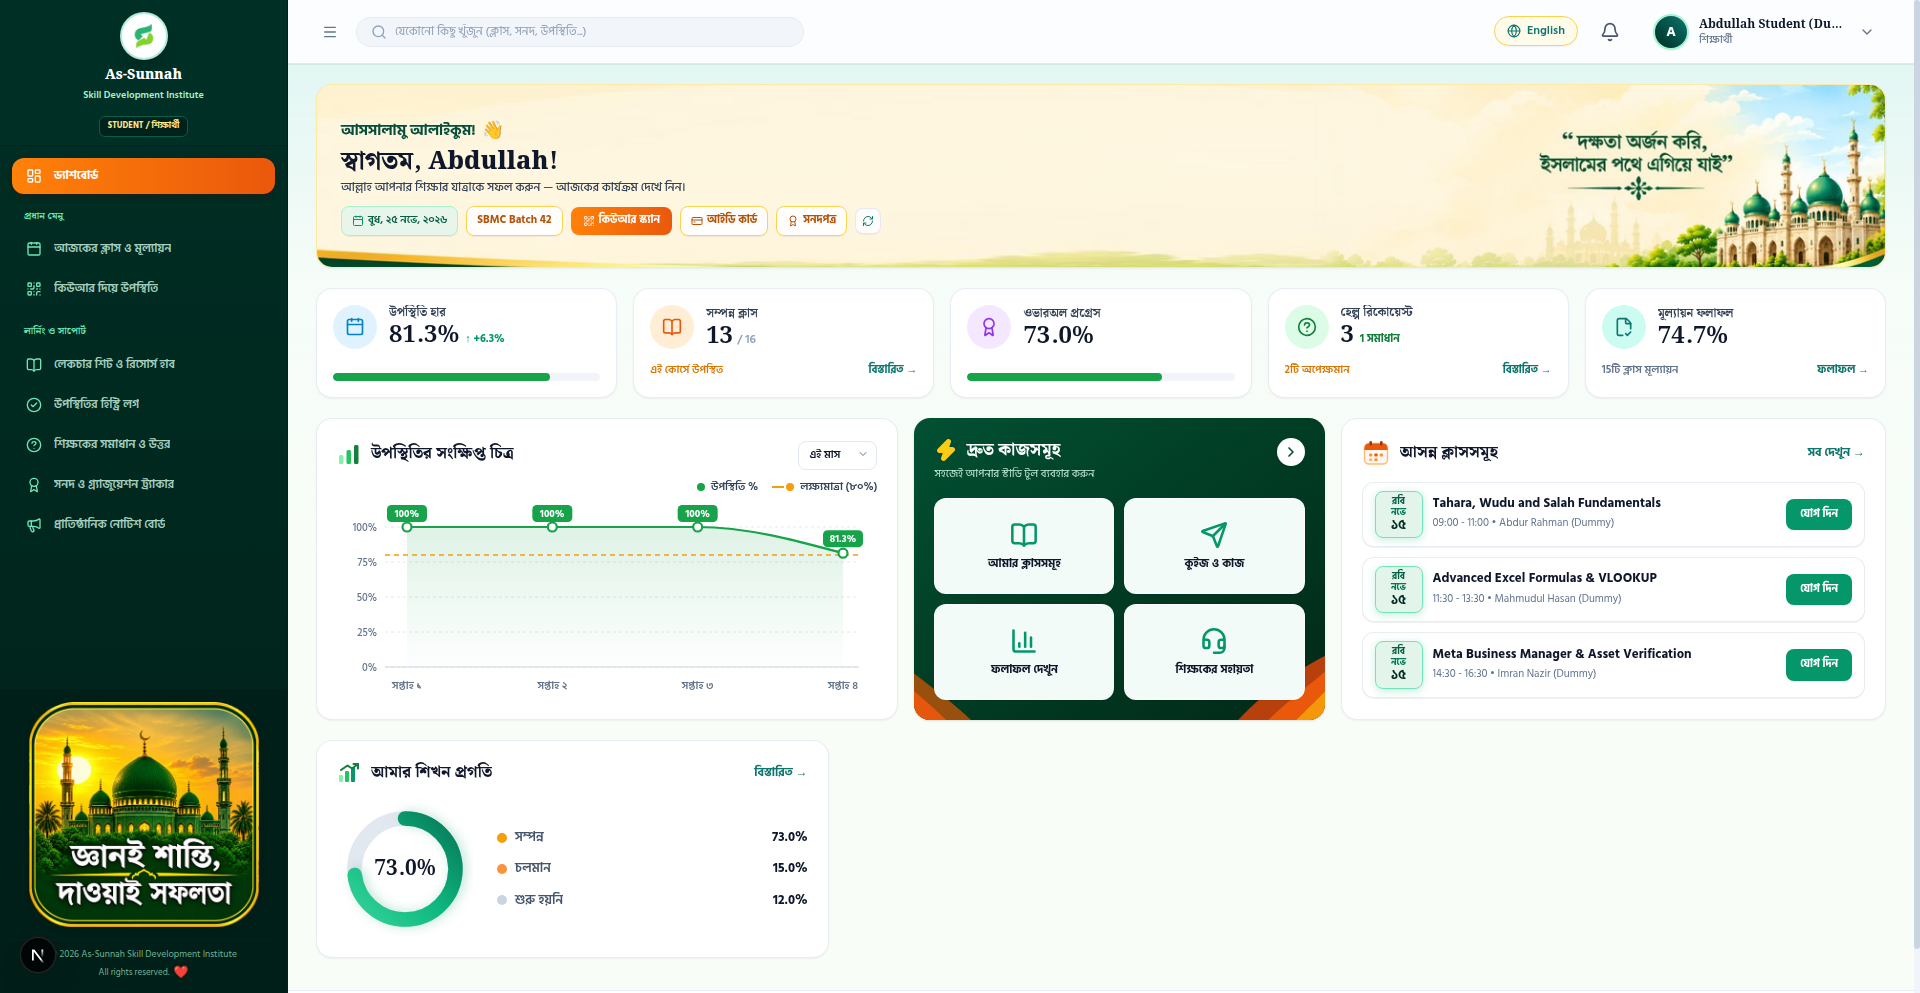
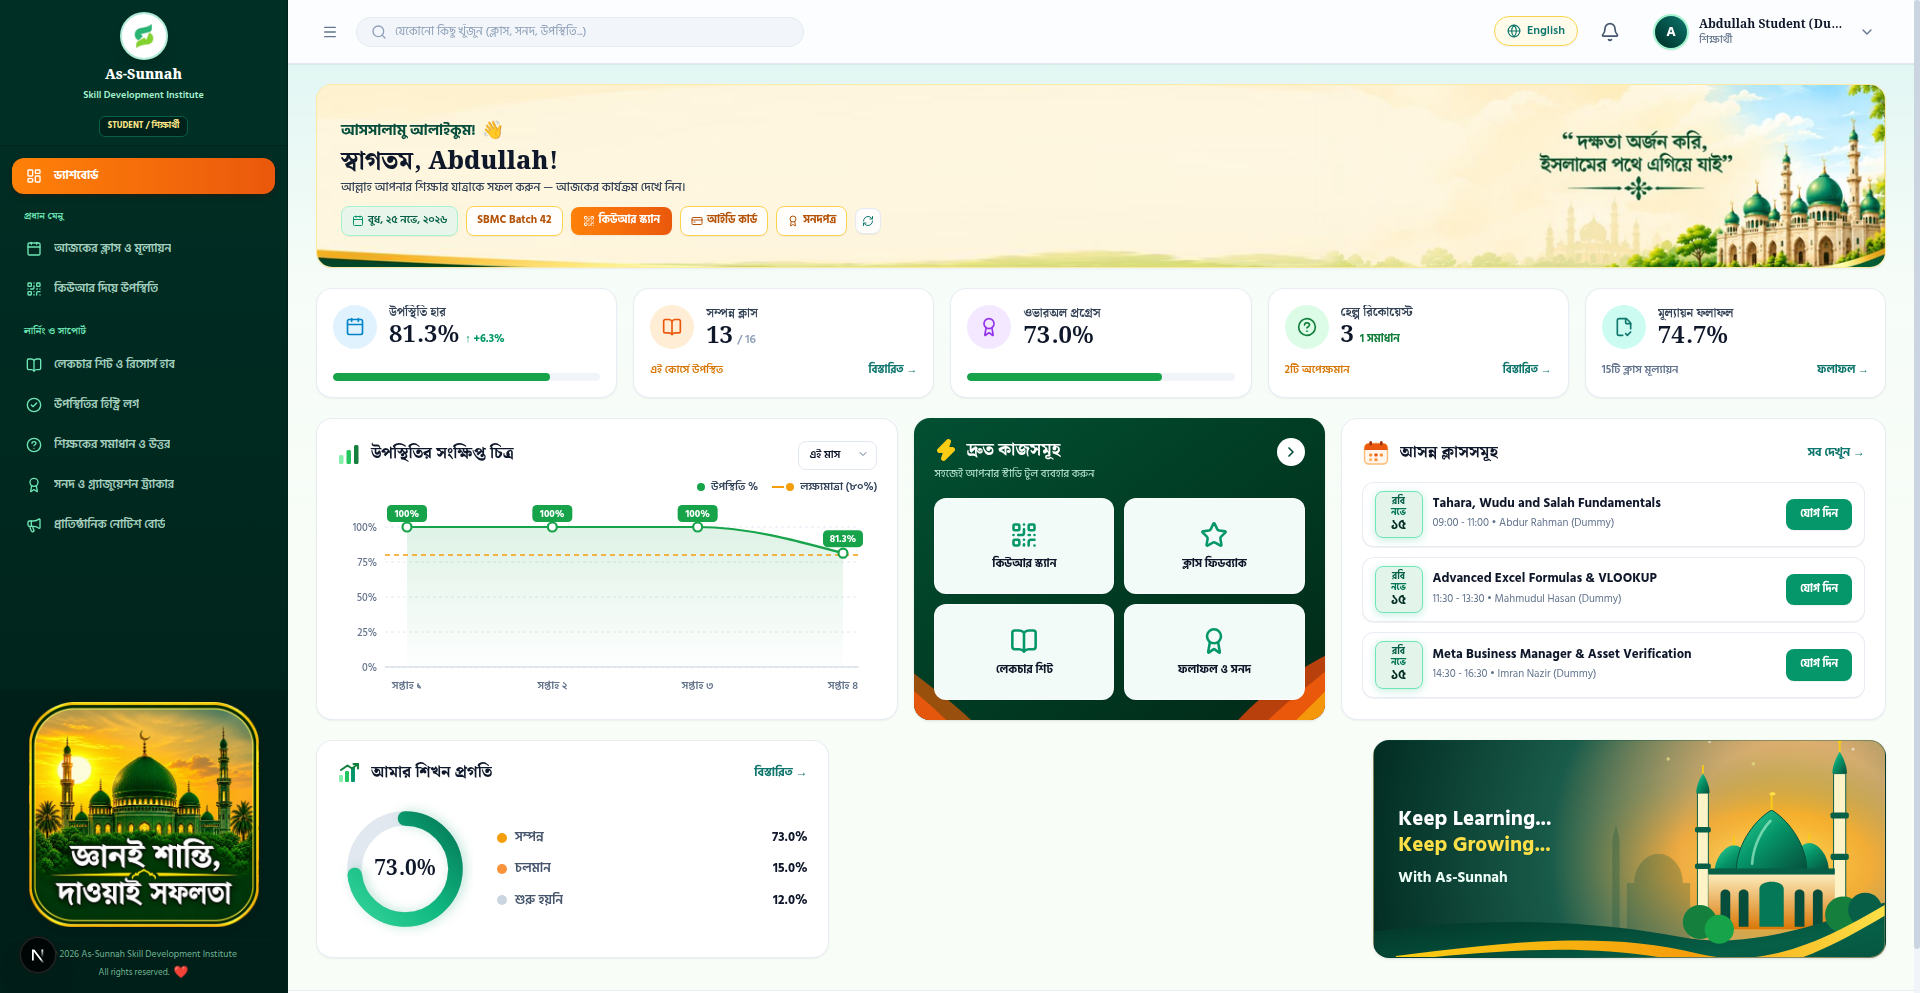
feat(student-ui): genuine SBMC Quick Actions and HD vector Keep Learning promo card

diff --git a/web/src/app/student/page.tsx b/web/src/app/student/page.tsx
@@ -1231,31 +1231,34 @@ export default function StudentPortalPage() {
             <div className="relative z-10 grid grid-cols-2 gap-2.5 mt-3.5 flex-1">
               <button
                 type="button"
-                onClick={() => handleTabChange('today')}
+                onClick={() => setScannerOpen(true)}
                 className="bg-[#F2FBF7] hover:bg-white text-[#0F172A] rounded-xl px-2.5 py-3 flex flex-col items-center justify-center gap-2 text-center shadow-xs hover:shadow-md hover:-translate-y-0.5 active:scale-[0.98] transition-all cursor-pointer border border-white/60"
               >
-                <BookOpen className="w-7 h-7 text-[#059669]" strokeWidth={2.2} />
+                <QrCode className="w-7 h-7 text-[#059669]" strokeWidth={2.2} />
                 <span className="text-[11.5px] font-bold text-[#0F172A] leading-tight">
-                  {isBangla ? 'আমার ক্লাসসমূহ' : 'View My Courses'}
+                  {isBangla ? 'কিউআর স্ক্যান' : 'Scan QR'}
                 </span>
               </button>
 
               <button
                 type="button"
-                onClick={() => {
-                  const latestSess = sessions[0];
-                  if (latestSess) {
-                    setSelectedSessionForAssignments(latestSess);
-                    setAssignmentsModalOpen(true);
-                  } else {
-                    handleTabChange('today');
-                  }
-                }}
+                onClick={() => handleTabChange('today')}
                 className="bg-[#F2FBF7] hover:bg-white text-[#0F172A] rounded-xl px-2.5 py-3 flex flex-col items-center justify-center gap-2 text-center shadow-xs hover:shadow-md hover:-translate-y-0.5 active:scale-[0.98] transition-all cursor-pointer border border-white/60"
               >
-                <Send className="w-7 h-7 text-[#059669]" strokeWidth={2.2} />
+                <Star className="w-7 h-7 text-[#059669]" strokeWidth={2.2} />
                 <span className="text-[11.5px] font-bold text-[#0F172A] leading-tight">
-                  {isBangla ? 'কুইজ ও কাজ' : 'Submit Assignment'}
+                  {isBangla ? 'ক্লাস ফিডব্যাক' : 'Class Feedback'}
+                </span>
+              </button>
+
+              <button
+                type="button"
+                onClick={() => handleTabChange('materials')}
+                className="bg-[#F2FBF7] hover:bg-white text-[#0F172A] rounded-xl px-2.5 py-3 flex flex-col items-center justify-center gap-2 text-center shadow-xs hover:shadow-md hover:-translate-y-0.5 active:scale-[0.98] transition-all cursor-pointer border border-white/60"
+              >
+                <BookOpen className="w-7 h-7 text-[#059669]" strokeWidth={2.2} />
+                <span className="text-[11.5px] font-bold text-[#0F172A] leading-tight">
+                  {isBangla ? 'লেকচার শিট' : 'Lecture Notes'}
                 </span>
               </button>
 
@@ -1264,20 +1267,9 @@ export default function StudentPortalPage() {
                 onClick={() => handleTabChange('graduation')}
                 className="bg-[#F2FBF7] hover:bg-white text-[#0F172A] rounded-xl px-2.5 py-3 flex flex-col items-center justify-center gap-2 text-center shadow-xs hover:shadow-md hover:-translate-y-0.5 active:scale-[0.98] transition-all cursor-pointer border border-white/60"
               >
-                <BarChart3 className="w-7 h-7 text-[#059669]" strokeWidth={2.2} />
+                <Award className="w-7 h-7 text-[#059669]" strokeWidth={2.2} />
                 <span className="text-[11.5px] font-bold text-[#0F172A] leading-tight">
-                  {isBangla ? 'ফলাফল দেখুন' : 'Check Results'}
-                </span>
-              </button>
-
-              <button
-                type="button"
-                onClick={() => handleTabChange('help')}
-                className="bg-[#F2FBF7] hover:bg-white text-[#0F172A] rounded-xl px-2.5 py-3 flex flex-col items-center justify-center gap-2 text-center shadow-xs hover:shadow-md hover:-translate-y-0.5 active:scale-[0.98] transition-all cursor-pointer border border-white/60"
-              >
-                <Headset className="w-7 h-7 text-[#059669]" strokeWidth={2.2} />
-                <span className="text-[11.5px] font-bold text-[#0F172A] leading-tight">
-                  {isBangla ? 'শিক্ষকের সহায়তা' : 'Contact Support'}
+                  {isBangla ? 'ফলাফল ও সনদ' : 'Results & Cert'}
                 </span>
               </button>
             </div>
@@ -1480,6 +1472,159 @@ export default function StudentPortalPage() {
                   </span>
                 </div>
               </div>
+            </div>
+          </div>
+
+          {/* Bottom-Right HD Vector Artwork Card: Keep Learning... Keep Growing... With As-Sunnah */}
+          <div
+            onClick={() => handleTabChange('graduation')}
+            role="button"
+            tabIndex={0}
+            onKeyDown={(e) => {
+              if (e.key === 'Enter' || e.key === ' ') {
+                e.preventDefault();
+                handleTabChange('graduation');
+              }
+            }}
+            title={isBangla ? 'শিখন অগ্রগতি ও সনদপত্র দেখতে ক্লিক করুন' : 'View your learning journey and certificate readiness'}
+            className="lg:col-span-6 xl:col-start-9 xl:col-span-4 relative overflow-hidden rounded-2xl shadow-sm border border-[#064E3B]/40 min-h-[205px] p-5 sm:p-6 flex flex-col justify-center cursor-pointer group select-none"
+            style={{
+              background:
+                'radial-gradient(circle at 82% 52%, rgba(251, 191, 36, 0.92) 0%, rgba(217, 119, 6, 0.55) 26%, rgba(6, 78, 59, 0.92) 56%, #022C22 100%)',
+            }}
+          >
+            {/* Atmospheric Dawn Light Rays & Subtle Twinkle Stars */}
+            <svg
+              className="pointer-events-none absolute inset-0 w-full h-full"
+              viewBox="0 0 420 220"
+              preserveAspectRatio="xMaxYMid slice"
+              fill="none"
+              aria-hidden="true"
+            >
+              <defs>
+                <radialGradient id="promoDawnGlow" cx="78%" cy="56%" r="52%">
+                  <stop offset="0%" stopColor="#FEF08A" stopOpacity="0.92" />
+                  <stop offset="38%" stopColor="#F59E0B" stopOpacity="0.48" />
+                  <stop offset="78%" stopColor="#065F46" stopOpacity="0.1" />
+                  <stop offset="100%" stopColor="#022C22" stopOpacity="0" />
+                </radialGradient>
+                <linearGradient id="promoDomeMain" x1="0%" y1="0%" x2="100%" y2="100%">
+                  <stop offset="0%" stopColor="#34D399" />
+                  <stop offset="45%" stopColor="#059669" />
+                  <stop offset="100%" stopColor="#064E3B" />
+                </linearGradient>
+                <linearGradient id="promoWallGlow" x1="0%" y1="0%" x2="0%" y2="100%">
+                  <stop offset="0%" stopColor="#FEF3C7" />
+                  <stop offset="100%" stopColor="#D97706" />
+                </linearGradient>
+                <linearGradient id="promoGoldSwoosh" x1="0%" y1="0%" x2="100%" y2="0%">
+                  <stop offset="0%" stopColor="#FACC15" />
+                  <stop offset="60%" stopColor="#F59E0B" />
+                  <stop offset="100%" stopColor="#FDE047" />
+                </linearGradient>
+                <linearGradient id="promoMeadow" x1="0%" y1="0%" x2="100%" y2="100%">
+                  <stop offset="0%" stopColor="#022C22" />
+                  <stop offset="65%" stopColor="#065F46" />
+                  <stop offset="100%" stopColor="#064E3B" />
+                </linearGradient>
+              </defs>
+
+              {/* Soft Twilight Stars */}
+              <circle cx="242" cy="36" r="1.4" fill="#FEF08A" fillOpacity="0.7" />
+              <circle cx="276" cy="22" r="1.1" fill="#FFFFFF" fillOpacity="0.55" />
+              <circle cx="312" cy="40" r="1.5" fill="#FEF08A" fillOpacity="0.75" />
+              <circle cx="394" cy="28" r="1.2" fill="#FFFFFF" fillOpacity="0.6" />
+
+              {/* Golden Sunset Glow Halo Behind Mosque */}
+              <rect x="0" y="0" width="420" height="220" fill="url(#promoDawnGlow)" />
+
+              {/* Distant Faint Mosque Silhouette for Depth */}
+              <g opacity="0.26" fill="#064E3B">
+                <rect x="208" y="138" width="52" height="50" />
+                <path d="M214 138C214 124 224 114 234 114C244 114 254 124 254 138Z" />
+                <rect x="196" y="102" width="6" height="84" />
+                <polygon points="196,102 199,90 202,102" />
+              </g>
+
+              {/* Tall Left Minaret */}
+              <g>
+                <rect x="266" y="64" width="9" height="106" fill="#FEF3C7" stroke="#065F46" strokeWidth="0.8" />
+                <rect x="264" y="92" width="13" height="4.5" rx="1.5" fill="#065F46" />
+                <rect x="264" y="122" width="13" height="4.5" rx="1.5" fill="#065F46" />
+                <path d="M265 64C265 56 270.5 48 270.5 48C270.5 48 276 56 276 64Z" fill="url(#promoDomeMain)" />
+                <line x1="270.5" y1="48" x2="270.5" y2="41" stroke="#FACC15" strokeWidth="1.4" />
+              </g>
+
+              {/* Tall Right Minaret */}
+              <g>
+                <rect x="378" y="48" width="10" height="122" fill="#FEF3C7" stroke="#065F46" strokeWidth="0.8" />
+                <rect x="375.5" y="80" width="15" height="5" rx="1.5" fill="#065F46" />
+                <rect x="375.5" y="114" width="15" height="5" rx="1.5" fill="#065F46" />
+                <path d="M377 48C377 39 383 30 383 30C383 30 389 39 389 48Z" fill="url(#promoDomeMain)" />
+                <line x1="383" y1="30" x2="383" y2="22" stroke="#FACC15" strokeWidth="1.5" />
+                <circle cx="383" cy="21" r="1.8" fill="#FACC15" />
+              </g>
+
+              {/* Secondary Flanking Side Domes */}
+              <path d="M280 130C280 116 290 107 296 107C302 107 312 116 312 130Z" fill="url(#promoDomeMain)" />
+              <line x1="296" y1="107" x2="296" y2="99" stroke="#FACC15" strokeWidth="1.3" />
+
+              <path d="M342 128C342 114 352 105 358 105C364 105 374 114 374 128Z" fill="url(#promoDomeMain)" />
+              <line x1="358" y1="105" x2="358" y2="97" stroke="#FACC15" strokeWidth="1.3" />
+
+              {/* Hero Central Grand Green Dome */}
+              <path
+                d="M298 128C298 104 316 84 327 78C338 84 356 104 356 128Z"
+                fill="url(#promoDomeMain)"
+                stroke="#064E3B"
+                strokeWidth="0.8"
+              />
+              {/* Specular Highlight on Grand Dome */}
+              <path
+                d="M311 122C312 106 320 93 326 87"
+                stroke="#A7F3D0"
+                strokeWidth="2.2"
+                strokeLinecap="round"
+                strokeOpacity="0.65"
+              />
+              <line x1="327" y1="78" x2="327" y2="66" stroke="#FACC15" strokeWidth="1.6" />
+              <path d="M325 65C326.5 62.5 329.5 62.5 330.5 65C329 66.5 326 66.5 325 65Z" fill="#FDE047" />
+
+              {/* Sunlit Arched Facade Body */}
+              <rect x="275" y="128" width="104" height="48" rx="3" fill="url(#promoWallGlow)" />
+              <rect x="275" y="126" width="104" height="5" fill="#065F46" />
+              {/* Colonnade Arches */}
+              <path d="M285 174V147C285 142 293 142 293 147V174H285Z" fill="#064E3B" />
+              <path d="M300 174V147C300 142 308 142 308 147V174H300Z" fill="#064E3B" />
+              <path d="M317 174V143C317 135 337 135 337 143V174H317Z" fill="#047857" />
+              <path d="M346 174V147C346 142 354 142 354 147V174H346Z" fill="#064E3B" />
+              <path d="M361 174V147C361 142 369 142 369 147V174H361Z" fill="#064E3B" />
+
+              {/* Lush Palm & Garden Silhouette Foreground */}
+              <path d="M0 178C90 166 175 168 250 182C310 194 370 170 420 154V220H0V178Z" fill="url(#promoMeadow)" />
+              <circle cx="268" cy="170" r="14" fill="#15803D" />
+              <circle cx="284" cy="176" r="12" fill="#16A34A" />
+              <circle cx="386" cy="164" r="15" fill="#15803D" />
+              <circle cx="404" cy="160" r="14" fill="#065F46" />
+
+              {/* Bottom Sweeping Golden Swoosh Ribbon */}
+              <path
+                d="M18 198C98 188 188 176 266 196C325 210 375 182 420 156V165C374 192 325 220 264 205C184 185 96 194 18 202Z"
+                fill="url(#promoGoldSwoosh)"
+              />
+            </svg>
+
+            {/* Ultra-Crisp Code-Rendered Typography */}
+            <div className="relative z-10 max-w-[66%] group-hover:translate-x-0.5 transition-transform">
+              <p className="text-[19px] sm:text-[21px] font-black !text-white leading-[1.15] tracking-tight drop-shadow-xs">
+                Keep Learning...
+              </p>
+              <p className="text-[19px] sm:text-[21px] font-black !text-[#FDE047] leading-[1.15] tracking-tight drop-shadow-xs mt-0.5">
+                Keep Growing...
+              </p>
+              <p className="text-[13.5px] sm:text-[15px] font-extrabold !text-[#ECFDF5] mt-2 tracking-wide">
+                With As-Sunnah
+              </p>
             </div>
           </div>
         </div>
